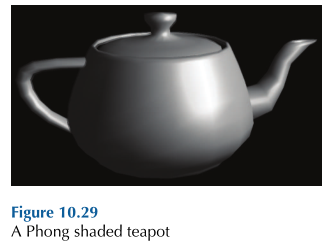
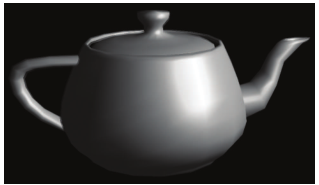
Site updated: 2020-03-25 20:32:31

diff --git a/Graphics/Lighting-Shading-Texture/index.html b/Graphics/Lighting-Shading-Texture/index.html
@@ -19,7 +19,7 @@
 <meta property="og:locale" content="en_US">
 <meta property="og:image" content="http://yoursite.com/images/og_image.png">
 <meta property="article:published_time" content="2020-03-25T03:35:00.000Z">
-<meta property="article:modified_time" content="2020-03-25T12:15:17.680Z">
+<meta property="article:modified_time" content="2020-03-25T12:32:09.965Z">
 <meta property="article:author" content="Keneyr">
 <meta property="article:tag" content="shading">
 <meta name="twitter:card" content="summary">
@@ -147,7 +147,7 @@
                 <span class="level-item has-text-grey">
                     
                     
-                    13 minutes read (About 1879 words)
+                    14 minutes read (About 2125 words)
                 </span>
                 
                 
@@ -212,7 +212,9 @@
 <p><img src="/images/reflection-vector.png" alt="Fig6. reflection-vector(from[1]))"></p>
 <p>$$<br>r = 2(n \cdot l)n-l<br>$$<br>The <strong>Phong Model</strong> for specular reflection is :<br>$$<br>c_{spec} = c_{light} \cdot m_{spec} \cdot max(0,v \cdot r)^{m_{gls}}<br>\tag{4}<br>$$</p>
 <p>$m_{gls}$ means the glossiness of the material,also known as the <em>Phong exponent, specular exponent</em>, or just as the material <em>shininess</em>. This controls how wide the “hotspot” is - a smaller $m_{gls}$ produces a larger, more gradual falloff from the hotspot,and a larger $m_{gls}$ produces a tight hotspot with sharp falloff. $m_{spec}$ is related to “shininess”, it represents the material’s <em>specular color</em>. While $m_{gls}$ controls the size of the hotspot, $m_{spec}$ controls its intensity and color. $c_{light}$ is essentially the “color” of the light, which contains both its color and intensity.</p>
-<p>But!!We usually use <strong>Blinn Phong Model</strong> instead of <strong>Phong Model</strong>.<br><img src="/images/blinn-phong-model.png" alt="Fig6. blinn-phong-model(from[1])"><br>The Blinn phong model can be faster to implement in hardware than the Phong model, if the viewer and light source are far enough away from the object to be considered a constant,since then <strong>h</strong> is a constant and only needs to be computed once. But when <strong>v</strong> or <strong>l</strong> may not be considered constant, the Phong model calculation might be faster.<br>The <strong>Blinn Phong Model</strong> for specualr reflection is :<br>$$<br>c_{spec} = c_{light} \cdot m_{spec} \cdot max(0,n \cdot h)^{m_{gls}}<br>\tag{4}<br>$$<br>$$<br>h = \frac{v + l}{|v + l|}<br>$$</p>
+<p>But!!We usually use <strong>Blinn Phong Model</strong> instead of <strong>Phong Model</strong>.</p>
+<p><img src="/images/blinn-phong-model.png" alt="Fig6. blinn-phong-model(from[1])"></p>
+<p>The Blinn phong model can be faster to implement in hardware than the Phong model, if the viewer and light source are far enough away from the object to be considered a constant,since then <strong>h</strong> is a constant and only needs to be computed once. But when <strong>v</strong> or <strong>l</strong> may not be considered constant, the Phong model calculation might be faster.<br>The <strong>Blinn Phong Model</strong> for specualr reflection is :<br>$$<br>c_{spec} = c_{light} \cdot m_{spec} \cdot max(0,n \cdot h)^{m_{gls}}<br>\tag{4}<br>$$<br>$$<br>h = \frac{v + l}{|v + l|}<br>$$</p>
 <blockquote>
 <p><strong>In real coding, vector in the above (1)(2)(3)(4) should be unit vector</strong></p>
 </blockquote>
@@ -263,6 +265,11 @@
 <blockquote>
 <p><strong>Mostly used is phong shading</strong></p>
 </blockquote>
+<p>Talk is cheap, show me the code. Here’s a code (from[3])</p>
+<figure class="highlight c++"><table><tr><td class="gutter"><pre><span class="line">1</span><br><span class="line">2</span><br><span class="line">3</span><br><span class="line">4</span><br><span class="line">5</span><br><span class="line">6</span><br><span class="line">7</span><br><span class="line">8</span><br><span class="line">9</span><br><span class="line">10</span><br><span class="line">11</span><br><span class="line">12</span><br><span class="line">13</span><br><span class="line">14</span><br><span class="line">15</span><br><span class="line">16</span><br><span class="line">17</span><br><span class="line">18</span><br><span class="line">19</span><br><span class="line">20</span><br><span class="line">21</span><br><span class="line">22</span><br><span class="line">23</span><br><span class="line">24</span><br><span class="line">25</span><br><span class="line">26</span><br><span class="line">27</span><br><span class="line">28</span><br><span class="line">29</span><br><span class="line">30</span><br><span class="line">31</span><br><span class="line">32</span><br><span class="line">33</span><br><span class="line">34</span><br><span class="line">35</span><br><span class="line">36</span><br><span class="line">37</span><br><span class="line">38</span><br><span class="line">39</span><br><span class="line">40</span><br><span class="line">41</span><br><span class="line">42</span><br><span class="line">43</span><br><span class="line">44</span><br><span class="line">45</span><br><span class="line">46</span><br><span class="line">47</span><br><span class="line">48</span><br><span class="line">49</span><br><span class="line">50</span><br><span class="line">51</span><br><span class="line">52</span><br><span class="line">53</span><br><span class="line">54</span><br><span class="line">55</span><br><span class="line">56</span><br><span class="line">57</span><br><span class="line">58</span><br><span class="line">59</span><br><span class="line">60</span><br><span class="line">61</span><br><span class="line">62</span><br><span class="line">63</span><br><span class="line">64</span><br><span class="line">65</span><br><span class="line">66</span><br><span class="line">67</span><br><span class="line">68</span><br><span class="line">69</span><br><span class="line">70</span><br></pre></td><td class="code"><pre><span class="line"><span class="comment">//per-pixel lighting</span></span><br><span class="line">Shader <span class="string">"Unity Shaders Book/Chapter 6/Blinn-Phong Use Built-in Functions"</span> &#123;</span><br><span class="line">    Properties &#123;</span><br><span class="line">        _Diffuse (<span class="string">"Diffuse"</span>, Color) = (<span class="number">1</span>, <span class="number">1</span>, <span class="number">1</span>, <span class="number">1</span>)</span><br><span class="line">        _Specular (<span class="string">"Specular"</span>, Color) = (<span class="number">1</span>, <span class="number">1</span>, <span class="number">1</span>, <span class="number">1</span>)</span><br><span class="line">        _Gloss (<span class="string">"Gloss"</span>, Range(<span class="number">1.0</span>, <span class="number">500</span>)) = <span class="number">20</span></span><br><span class="line">	&#125;</span><br><span class="line">	SubShader &#123;</span><br><span class="line">		Pass &#123; </span><br><span class="line">			Tags &#123; <span class="string">"LightMode"</span>=<span class="string">"ForwardBase"</span> &#125;</span><br><span class="line">		</span><br><span class="line">			CGPROGRAM</span><br><span class="line">			</span><br><span class="line">			#pragma vertex vert</span><br><span class="line">			#pragma fragment frag</span><br><span class="line">			</span><br><span class="line">			#include <span class="string">"Lighting.cginc"</span></span><br><span class="line">			</span><br><span class="line">			fixed4 _Diffuse;</span><br><span class="line">			fixed4 _Specular;</span><br><span class="line">			<span class="keyword">float</span> _Gloss;</span><br><span class="line">			</span><br><span class="line">			<span class="class"><span class="keyword">struct</span> <span class="title">a2v</span> &#123;</span></span><br><span class="line">				float4 vertex : POSITION;</span><br><span class="line">				float3 normal : NORMAL;</span><br><span class="line">			&#125;;</span><br><span class="line">			</span><br><span class="line">			<span class="class"><span class="keyword">struct</span> <span class="title">v2f</span> &#123;</span></span><br><span class="line">				float4 pos : SV_POSITION;</span><br><span class="line">				float3 worldNormal : TEXCOORD0;</span><br><span class="line">				float4 worldPos : TEXCOORD1;</span><br><span class="line">			&#125;;</span><br><span class="line">			</span><br><span class="line">			<span class="function">v2f <span class="title">vert</span><span class="params">(a2v v)</span> </span>&#123;</span><br><span class="line">				v2f o;</span><br><span class="line">				o.pos = UnityObjectToClipPos(v.vertex);</span><br><span class="line">				</span><br><span class="line">				<span class="comment">// Use the build-in funtion to compute the normal in world space</span></span><br><span class="line">				o.worldNormal = UnityObjectToWorldNormal(v.normal);</span><br><span class="line">				</span><br><span class="line">				o.worldPos = mul(unity_ObjectToWorld, v.vertex);</span><br><span class="line">				</span><br><span class="line">				<span class="keyword">return</span> o;</span><br><span class="line">			&#125;</span><br><span class="line">			</span><br><span class="line">			<span class="function">fixed4 <span class="title">frag</span><span class="params">(v2f i)</span> : SV_Target </span>&#123;</span><br><span class="line">				fixed3 ambient = UNITY_LIGHTMODEL_AMBIENT.xyz;</span><br><span class="line">				</span><br><span class="line">				fixed3 worldNormal = normalize(i.worldNormal);</span><br><span class="line">				<span class="comment">//  Use the build-in funtion to compute the light direction in world space</span></span><br><span class="line">				<span class="comment">// Remember to normalize the result</span></span><br><span class="line">				fixed3 worldLightDir = normalize(UnityWorldSpaceLightDir(i.worldPos));</span><br><span class="line">				</span><br><span class="line">				fixed3 diffuse = _LightColor0.rgb * _Diffuse.rgb * <span class="built_in">max</span>(<span class="number">0</span>, dot(worldNormal, worldLightDir));</span><br><span class="line">				</span><br><span class="line">				<span class="comment">// Use the build-in funtion to compute the view direction in world space</span></span><br><span class="line">				<span class="comment">// Remember to normalize the result</span></span><br><span class="line">				fixed3 viewDir = normalize(UnityWorldSpaceViewDir(i.worldPos));</span><br><span class="line">				</span><br><span class="line">				fixed3 halfDir = normalize(worldLightDir + viewDir);</span><br><span class="line">				fixed3 specular = _LightColor0.rgb * _Specular.rgb * <span class="built_in">pow</span>(<span class="built_in">max</span>(<span class="number">0</span>, dot(worldNormal, halfDir)), _Gloss);</span><br><span class="line">				</span><br><span class="line">				<span class="keyword">return</span> fixed4(ambient + diffuse + specular, <span class="number">1.0</span>);</span><br><span class="line">			&#125;</span><br><span class="line">			</span><br><span class="line">			ENDCG</span><br><span class="line">		&#125;</span><br><span class="line">	&#125; </span><br><span class="line">	FallBack <span class="string">"Specular"</span></span><br><span class="line">&#125;</span><br></pre></td></tr></table></figure>
+<p>The result is :</p>
+<p><img src="/images/phong-shading.png" alt="Fig9. phong-shading"></p>
+<h2 id="Light-Sources"><a href="#Light-Sources" class="headerlink" title="Light Sources"></a>Light Sources</h2><p>If you have used <strong><em>Unity</em></strong>, you won’t forget different kinds of lights.</p>
 <h1 id="Appendix"><a href="#Appendix" class="headerlink" title="Appendix:"></a>Appendix:</h1><h2 id="PBS"><a href="#PBS" class="headerlink" title="PBS"></a>PBS</h2><hr>
 <p>References:<br>[1]3D Math Primer for Graphics and Game Development 2nd Edition.<br>[2]Fundamentals of Computer Graphics and 3rd Edition.<br>[3]Unity+Shader入门精要<br>[4]<a href="https://docs.unity3d.com/Manual/index.html">https://docs.unity3d.com/Manual/index.html</a></p>
 <hr>

diff --git a/categories/Graphics/index.html b/categories/Graphics/index.html
@@ -156,7 +156,7 @@
                 <span class="level-item has-text-grey">
                     
                     
-                    13 minutes read (About 1879 words)
+                    14 minutes read (About 2125 words)
                 </span>
                 
                 

diff --git a/index.html b/index.html
@@ -145,7 +145,7 @@
                 <span class="level-item has-text-grey">
                     
                     
-                    13 minutes read (About 1879 words)
+                    14 minutes read (About 2125 words)
                 </span>
                 
                 

diff --git a/tags/shading/index.html b/tags/shading/index.html
@@ -155,7 +155,7 @@
                 <span class="level-item has-text-grey">
                     
                     
-                    13 minutes read (About 1879 words)
+                    14 minutes read (About 2125 words)
                 </span>
                 
                 
